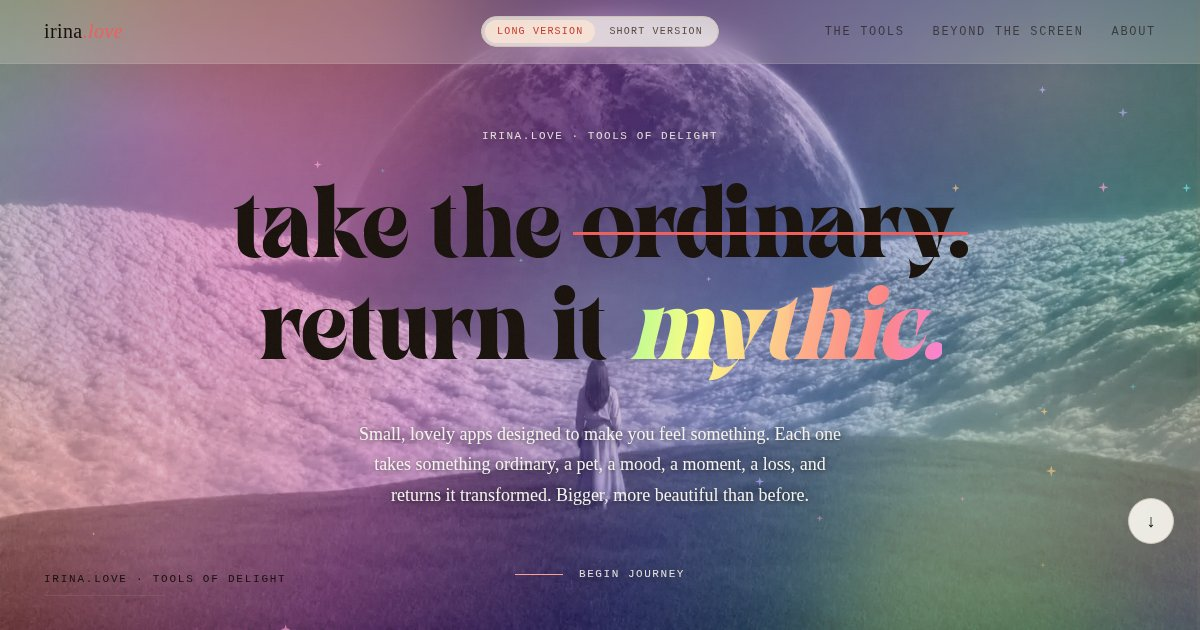
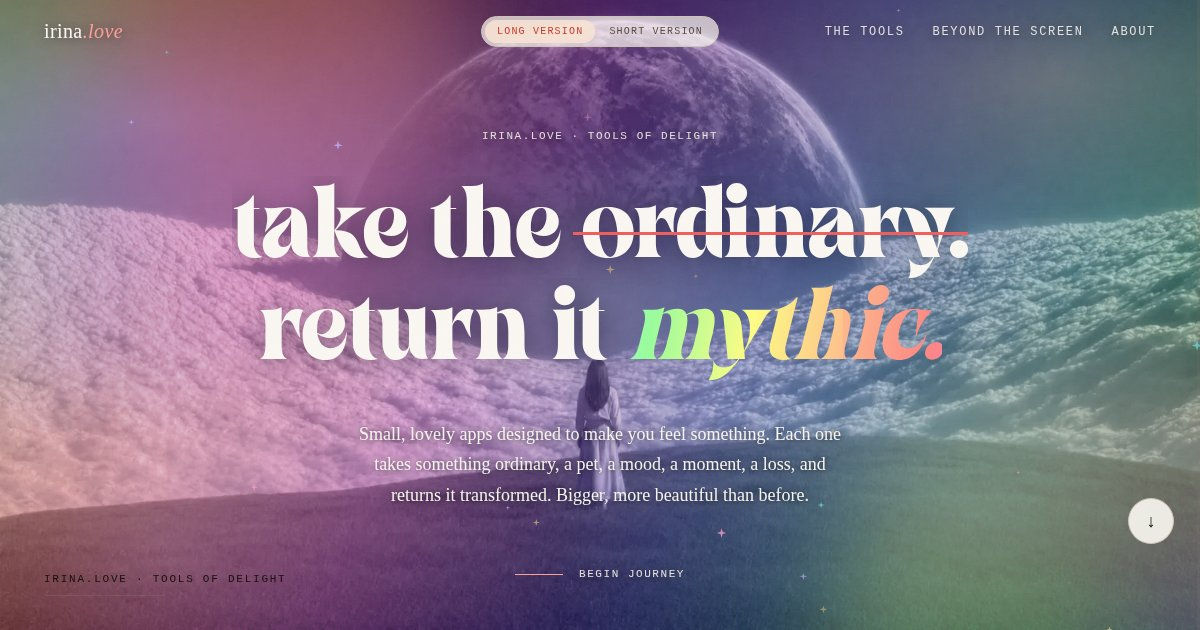
White hero headline (#46)
* Lock Fraunces optical size so display type matches on mobile and desktop

Browsers auto-select the variable font's opsz axis differently (desktop
Chrome vs iOS Safari), so the big display headings rendered as visibly
different letterforms per device. Pin opsz to 100 on all display type and
normalise the 560 weight to 600.

Claude-Session: https://claude.ai/code/session_016hTGX3c67mEydCN7ixPkd8

* Try Aventi for the hero headline, new copy for the four big section headlines

Vendor AventiBold (woff2/woff) and point .hero-title at it, everything
else about the treatment unchanged. Replace the section intro headlines
with the new lines (your pet reimagined / a mood turned into perspective /
a moment composed into sound / a loss turned into bloom), with balanced
wrapping and a slightly looser line-height for multi-line.

Claude-Session: https://claude.ai/code/session_016hTGX3c67mEydCN7ixPkd8

* Section headlines in Aventi too

Claude-Session: https://claude.ai/code/session_016hTGX3c67mEydCN7ixPkd8

* Force the two-line break in the four section headlines

Claude-Session: https://claude.ai/code/session_016hTGX3c67mEydCN7ixPkd8

* Section headlines: a pet reimagined / a mood reframed / a moment recomposed / a loss regrown

Claude-Session: https://claude.ai/code/session_016hTGX3c67mEydCN7ixPkd8

* Smaller section headlines, purple re-words with holo on hover

Section h2 drops from clamp(50px,9.6vw,132px) to clamp(44px,8.2vw,112px)
[…]

diff --git a/website_source/index.html b/website_source/index.html
@@ -322,7 +322,10 @@
   .hero-title {
     font-family: 'Aventi', var(--display); font-weight: 400; position: relative; z-index: 2;
     font-size: clamp(46px, 8.2vw, 116px); line-height: 1.04; letter-spacing: -0.015em;
+    color: oklch(98% 0.008 85);
+    text-shadow: 0 2px 26px oklch(20% 0.04 280 / 0.45);
   }
+  .hero-title .holo-word { text-shadow: none; }
   .hero-title .row { display: block; overflow: hidden; padding-bottom: 0.16em; margin-bottom: -0.16em; }
   .hero-title .row > span { display: inline-block; will-change: transform; }
   .hero-title .strike { position: relative; white-space: nowrap; }
